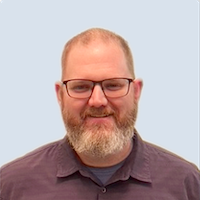
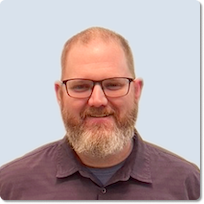
Fixed provider imgs for home + about pages

Changed region(s): [[0.0, 0.0, 1.0, 1.0], [0.15, 0.81, 0.18, 0.84]]

diff --git a/about-clinic.html b/about-clinic.html
@@ -76,19 +76,19 @@
 									<h3>Our Provider Family</h3>
 									
 									<h5>Bryce H. Gilman, D.O.</h5>
-									<img src="images/pic02.jpg" alt="Hero Img BGilman">
+									<img src="images/GFP_BGilman_Portrait_WG_ess.png" alt="Hero Img BGilman">
 									<p>Dr Bryce Gilman grew up in the Spokane Valley and after years away for school and work he’d seen enough to know Spokane had every other place beat. Happy to move back to Washington in 2008, Dr. Gilman joined his father David Gilman and Dave’s long time partner Nick Curalli in their family practice near Valley Hospital. After many great years together, Dave and Nick retired in 2016 and Bryce has—with a lot of help—held the fort since.<br>
 									<br>After over 15 years, Bryce still loves family medicine—every day is different and full of interesting and wonderful people.  You never know what the day will bring.  If he won the lottery tomorrow, Bryce would definitely retire to New Zealand. However, that is a fairly unlikely occurrence as one has to play to win after all. So, keeping on here is a pretty great second prize. Outside the office, Bryce loves dogs and the water but not wet dogs. He enjoys reading scary tales, both real and imagined.  He would be hard pressed to choose between watching a monster movie, building a Lego set or playing a video game with his boys. He used to be cool, but all that’s left of that is his shoes. </p>
 									
 									<h5>Laurie Dimler, ARNP</h5>
-									<img src="images/pic02.jpg" alt="Hero Img LDimler">
+									<img src="images/GFP_KStewart_Portrait_ess.png" alt="Hero Img LDimler">
 									<p>Laurie started her medical career as an RN in 1992 after completing a BSN degree at Minot State University in ND. After 13 years working in ICU, medical/oncology, PACU and rural nursing, she completed her Master’s of Science in Nursing degree and started teaching in a Baccalaureate nursing program for 8 years.
 									<br><br>Still interested in more education, she finished her Doctor of Nurse Practice degree at NDSU, Fargo, in 2015. Laurie enjoys caring for patient in family medicine with each day being a different mix of concerns. Her experience in rural nursing, urgent care and education enhances the spectrum of patients she sees at Gilman Family Practice.
 									<br><br>Laurie and her husband, Ken love to hike and spend time with family. Their 3 children, Christopher, Ryan and Macy are all grown and busy with work and school in the north Idaho area.
 									</p>
 
 									<h5>Kristina A. Stewart, PA-C</h5>
-									<img src="images/pic02.jpg" alt="Hero Img KStewart">
+									<img src="images/GFP_LDimler_Portrait_LD_ess.png" alt="Hero Img KStewart">
 									<p>Kristina was born and raised in nearby Coeur d’Alene Idaho. She wanted to serve her country and see the world, so she joined the USAF. Her career in medicine began as an Aerospace Medical Technician. After she got her Bach. of Science degree, she was accepted into the University of Utah's School of Medicine where she earned her Master's of Physician Asst Studies degree. She's worked in Urgent Care and Family Medicine for the past 15 years.
 									</p>
 									
